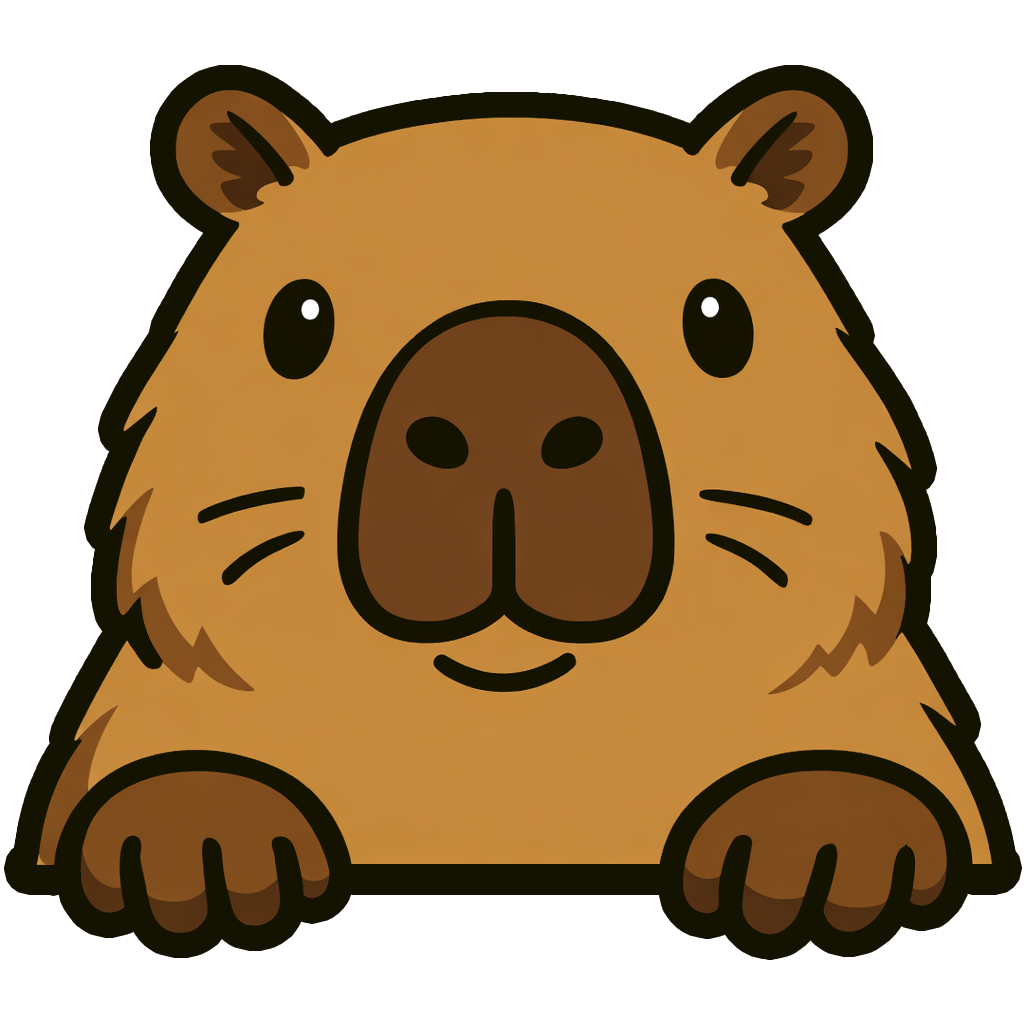
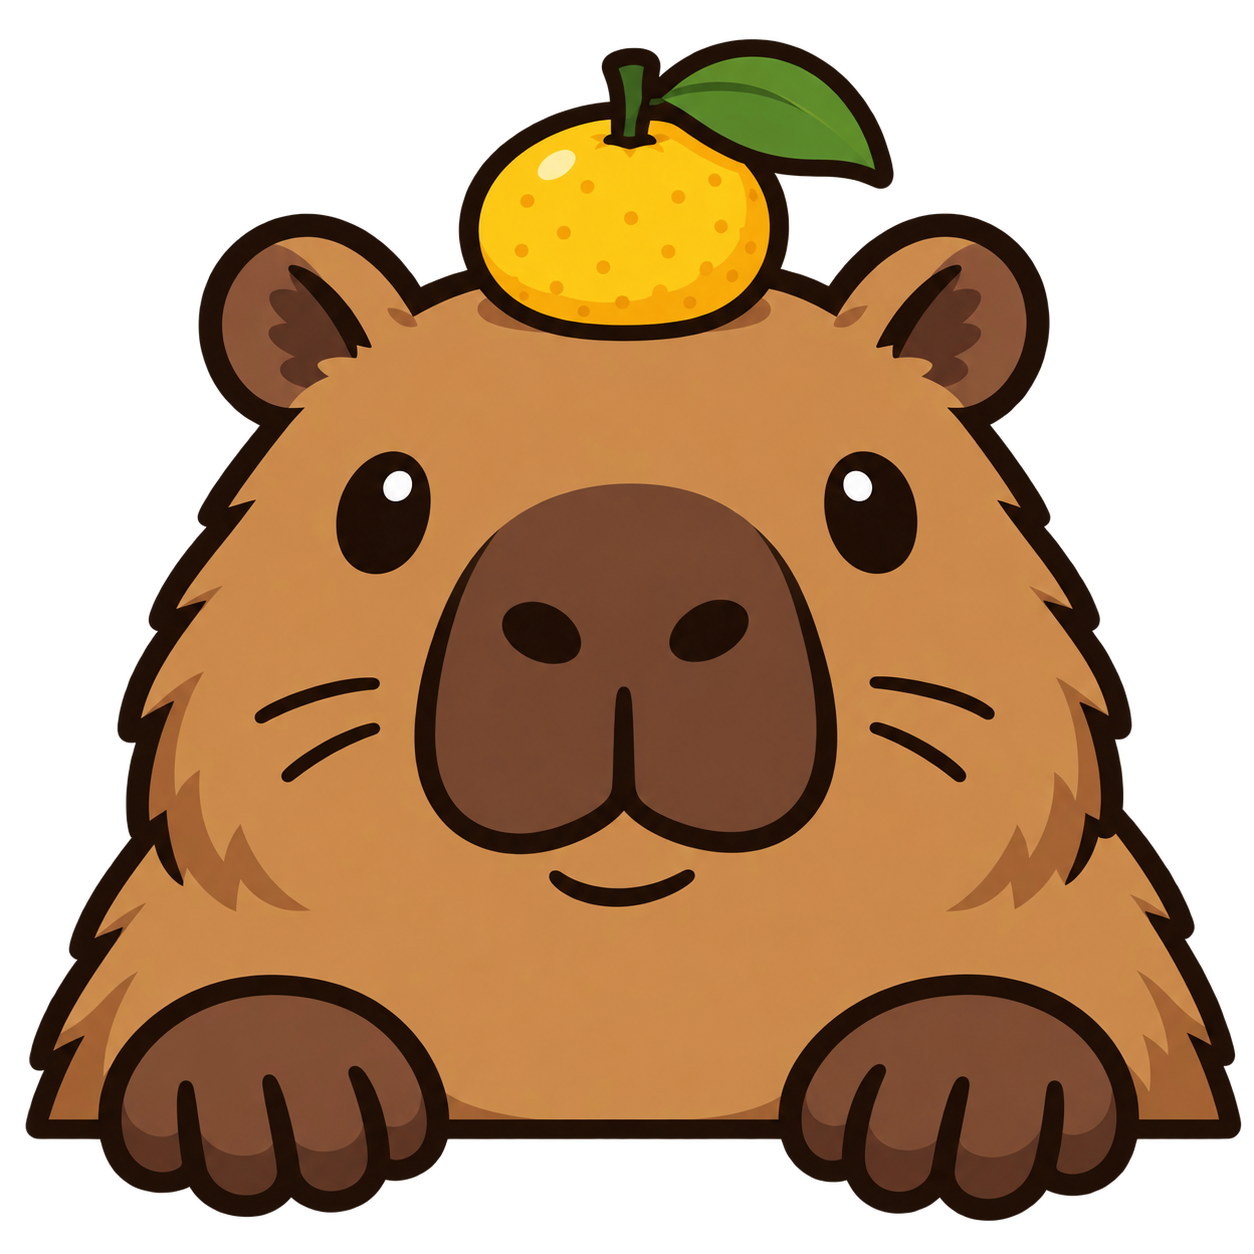
Update Branding

diff --git a/faq/index.html b/faq/index.html
@@ -146,7 +146,7 @@ body::before {
 
 @media (max-width: 640px) {
   #header-inner { padding: 0 16px; }
-  #logo-capy { width: 60px; height: 60px; bottom: -12px; }
+  #logo-capy { width: 60px; height: 60px; bottom: -10px; }
   #logo-text { font-size: 19px; }
 
   #nav-toggle { display: flex; align-items: center; justify-content: center; }

diff --git a/index.html b/index.html
@@ -193,7 +193,7 @@ body::before {
 
 @media (max-width: 640px) {
   #header-inner { padding: 0 16px; }
-  #logo-capy { width: 60px; height: 60px; bottom: -12px; }
+  #logo-capy { width: 60px; height: 60px; bottom: -10px; }
   #logo-text { font-size: 19px; }
 
   #nav-toggle { display: flex; align-items: center; justify-content: center; }

diff --git a/live/index.html b/live/index.html
@@ -154,7 +154,7 @@ body::before {
 
 @media (max-width: 640px) {
   #header-inner { padding: 0 16px; }
-  #logo-capy { width: 60px; height: 60px; bottom: -12px; }
+  #logo-capy { width: 60px; height: 60px; bottom: -10px; }
   #logo-text { font-size: 19px; }
 
   #nav-toggle { display: flex; align-items: center; justify-content: center; }

diff --git a/profile/index.html b/profile/index.html
@@ -152,7 +152,7 @@ body::before {
 
 @media (max-width: 640px) {
   #header-inner { padding: 0 16px; }
-  #logo-capy { width: 60px; height: 60px; bottom: -12px; }
+  #logo-capy { width: 60px; height: 60px; bottom: -10px; }
   #logo-text { font-size: 19px; }
 
   #nav-toggle { display: flex; align-items: center; justify-content: center; }

diff --git a/widgets/index.html b/widgets/index.html
@@ -115,7 +115,7 @@ body::before {
 
 @media (max-width: 640px) {
   #header-inner { padding: 0 16px; }
-  #logo-capy { width: 60px; height: 60px; bottom: -12px; }
+  #logo-capy { width: 60px; height: 60px; bottom: -10px; }
   #logo-text { font-size: 19px; }
 
   #nav-toggle { display: flex; align-items: center; justify-content: center; }
